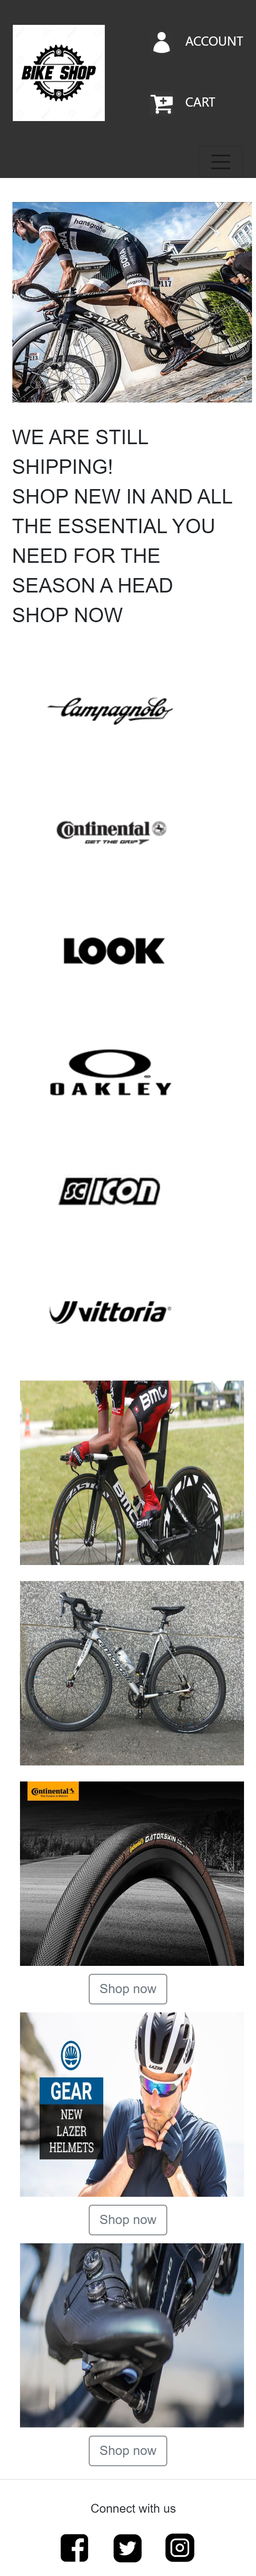
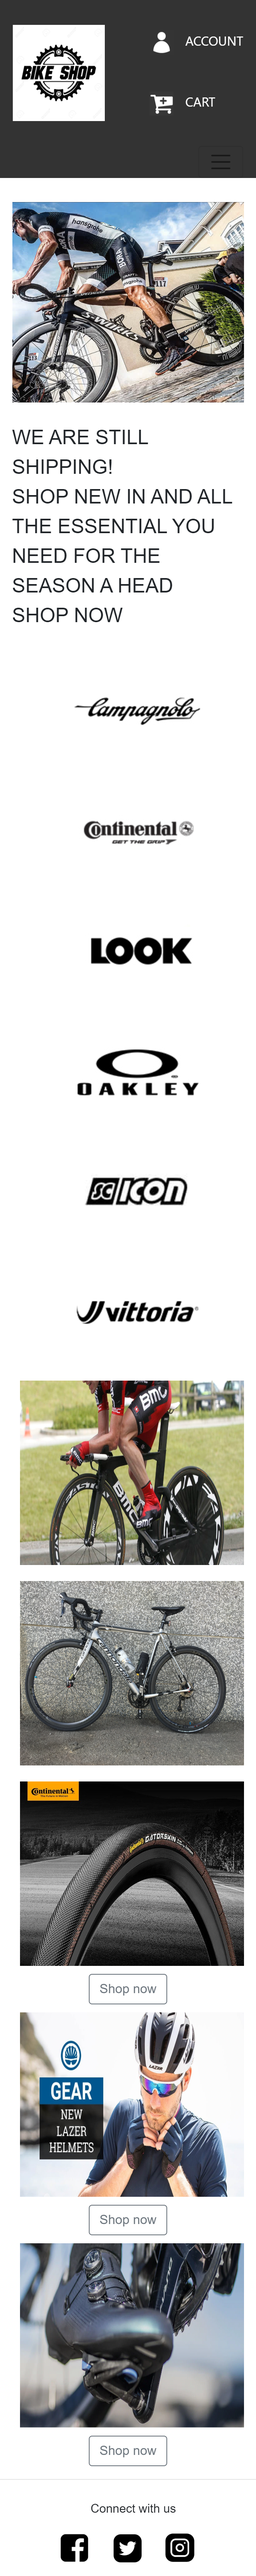
fix

diff --git a/index.html b/index.html
@@ -19,7 +19,7 @@
 
     
     <nav class="navbar navbar-expand-sm navbar-light " style="background-color: #333333;">
-        <a class="navbar-brand " href="#"><img src="IMG/logo.png" alt="" class = "shoplogo"></a>
+        <a class="navbar-brand " href="#"><img src="IMG/logo.png" alt="" class = "shoplogo text-center"></a>
             <ul class="navbar-nav ml-auto">
                 <li class="nav-item"><a class="nav-link" href="#section1" style="color:white"><img src="IMG/account_icon.png" class="topicon" alt="">ACCOUNT</a></li>
                 <li class="nav-item"><a class="nav-link" href="#section1" style="color:white"><img src="IMG/cart_icon.png" class="topicon" alt="">CART</a></li>
@@ -73,22 +73,22 @@
     <div class="brand" id="section3">
         <div class="container">
             <div class="row">
-                <div class="col-xs-6 col-sm-6 col-md-4 col-lg-2 brand_logo">
+                <div class="col-xs-6 col-sm-6 col-md-4 col-lg-2 brand_logo text-center">
                     <img src="IMG/197x110-campag-013743.jpg">
                 </div>
-                <div class="col-xs-6 col-sm-6 col-md-4 col-lg-2 brand_logo">
+                <div class="col-xs-6 col-sm-6 col-md-4 col-lg-2 brand_logo text-center">
                     <img src="IMG/197x110-Continental-013840.jpg">
                 </div>
-                <div class="col-xs-6 col-sm-6 col-md-4 col-lg-2 brand_logo">
+                <div class="col-xs-6 col-sm-6 col-md-4 col-lg-2 brand_logo text-center">
                     <img src="IMG/197x110-look-013803.jpg">
                 </div>
-                <div class="col-xs-6 col-sm-6 col-md-4 col-lg-2 brand_logo">
+                <div class="col-xs-6 col-sm-6 col-md-4 col-lg-2 brand_logo text-center">
                     <img src="IMG/197x110-oakley-013833.jpg">
                 </div>
-                <div class="col-xs-6 col-sm-6 col-md-4 col-lg-2 brand_logo">
+                <div class="col-xs-6 col-sm-6 col-md-4 col-lg-2 brand_logo text-center">
                     <img src="IMG/197x110-scicon-081800.jpg">
                 </div>
-                <div class="col-xs-6 col-sm-6 col-md-4 col-lg-2 brand_logo">
+                <div class="col-xs-6 col-sm-6 col-md-4 col-lg-2 brand_logo text-center">
                     <img src="IMG/197x110-vittoria-110437.jpg">
                 </div>
             </div>

diff --git a/CSS/style.css b/CSS/style.css
@@ -70,7 +70,7 @@ p {
 }
 .advertisement img {
 	height: 350px;
-	width: 610px;
+	width: 100%;
 }
 .advertisement .card {
 	background-color: #ffffff;
@@ -114,7 +114,7 @@ p {
 	}
 	.advertisement img {
 		height: 250px !important;
-		width: 300px !important;
+		width: 100% !important;
 	}
 	.current{
 		padding-left: 30px !important;
@@ -139,13 +139,13 @@ p {
 @media (max-width: 1200px){
 	.advertisement img {
 		height: 350px;
-		width: 550px;
+		width: 100%;
 	}
 	.brand_logo{
 		padding-top: 20px;
 		padding-bottom: 20px;
 		height: 157 !important;
-		width: 60 !important;
+		width: 100% !important;
 	}
 }
 
